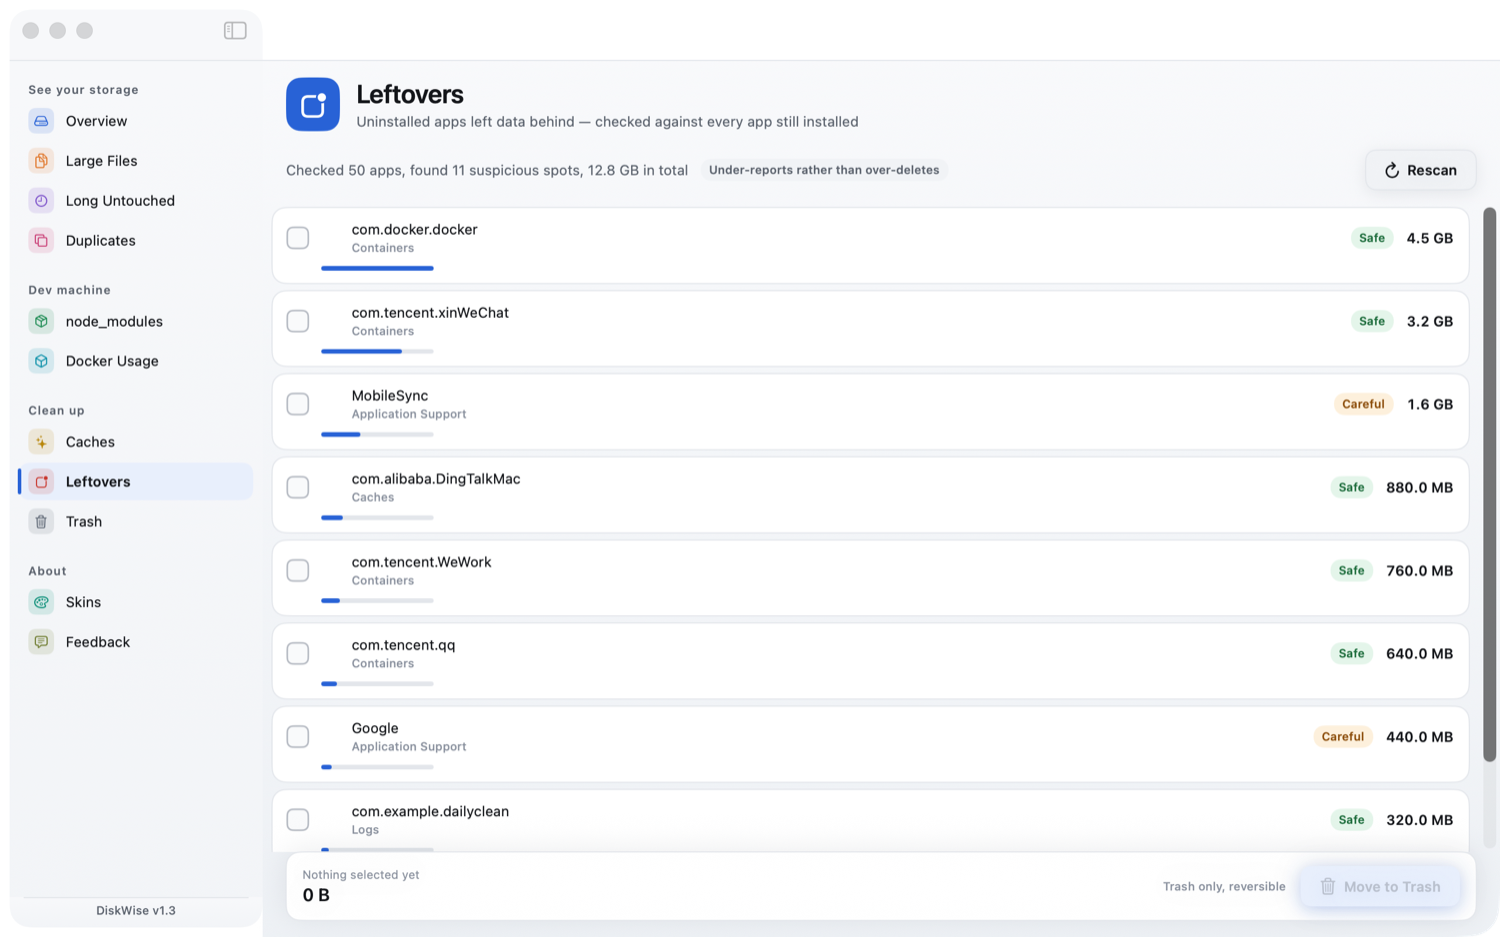
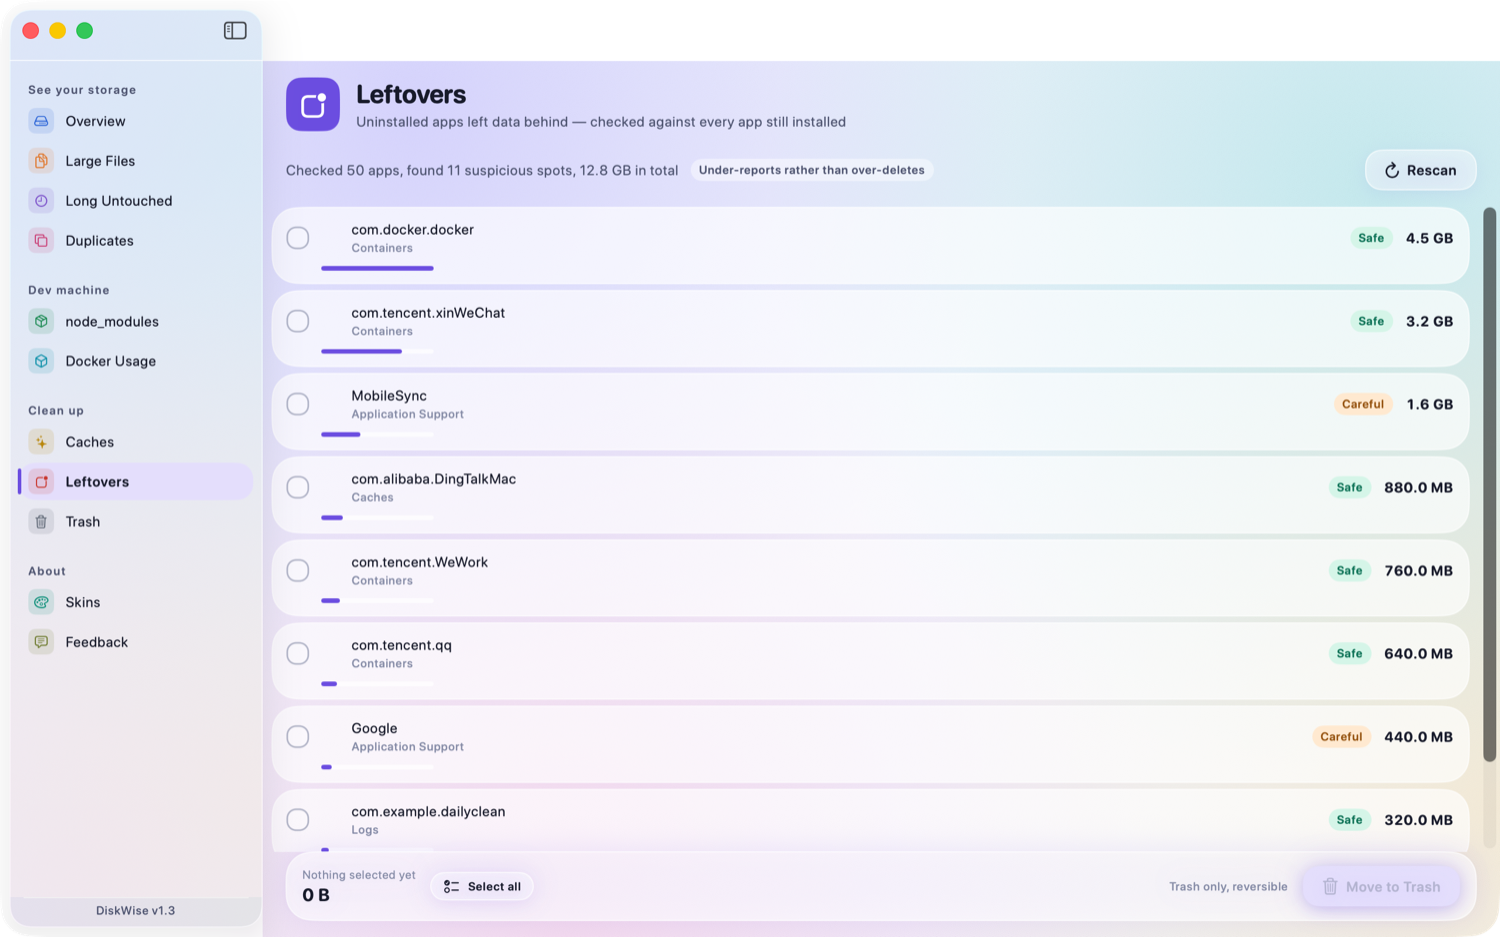
Give the checkbox lists a select-all that only reaches what it may delete
大文件、很久没动、缓存清理、卸载残留、node_modules 五页都是勾选列表，却没有一处
「全选」：一屏 30 行只能点 30 次。重复文件页早就有「全选多余」，其余四页漏了。

全选按在底部清理条上（选中数量就在它旁边，用户找批量操作时眼睛本来在那儿），
状态跟着列表走：全勾上变「取消全选」，一行都勾不动时按钮不画。

它只勾勾得动的行：系统区的条目（勾了也删不掉，全选后按清理只会换一屏报错）、
体积还没统计出来的缓存项、以及卸载残留里标「留意」的那批——那页的立脚点是宁可
漏报不可误删，一键把「留意」带走等于把这页存在的理由按掉。差额写在按钮提示里，
不然列表 30 行、按完只选上 13 项，看着像漏了。

diff --git a/Sources/DiskCleaner/Views/BigOldViews.swift b/Sources/DiskCleaner/Views/BigOldViews.swift
@@ -24,6 +24,20 @@ final class BigFilesModel: ObservableObject {
     var selected: [FileRow] { rows.filter { $0.selected } }
     var selectedBytes: Int64 { selected.reduce(0) { $0 + $1.size } }
 
+    /// 「全选」只管勾得动的那几行：系统区的行选上也删不掉，全选后按清理只会换一屏报错。
+    /// 一行都勾不动时返回 nil，按钮不画——画一颗点了没反应的按钮比没有更糟。
+    var selectAll: SelectAll? {
+        let open = rows.filter(\.deletable)
+        guard !open.isEmpty else { return nil }
+        return SelectAll(allSelected: open.allSatisfy(\.selected),
+                         unselectable: rows.count - open.count) { on in
+            for i in self.rows.indices where self.rows[i].deletable {
+                self.rows[i].selected = on
+            }
+            self.syncBack()
+        }
+    }
+
     /// 总览跳过来的定向扫描；dirs == nil 回到默认范围
     func scan(scope: ScanScope, dirs: [URL]? = nil, note: String? = nil) {
         task?.cancel()
@@ -140,7 +154,7 @@ struct BigFilesView: View {
             }
 
             CleanBar(count: model.selected.count, bytes: model.selectedBytes,
-                     errorText: err) { confirm = true }
+                     errorText: err, selection: model.selectAll) { confirm = true }
         }
         .frame(maxWidth: .infinity)
         .onAppear {
@@ -200,6 +214,17 @@ final class OldFilesModel: ObservableObject {
     var selected: [FileRow] { rows.filter { $0.selected } }
     var selectedBytes: Int64 { selected.reduce(0) { $0 + $1.size } }
     var totalBytes: Int64 { rows.reduce(0) { $0 + $1.size } }
+
+    var selectAll: SelectAll? {
+        let open = rows.filter(\.deletable)
+        guard !open.isEmpty else { return nil }
+        return SelectAll(allSelected: open.allSatisfy(\.selected),
+                         unselectable: rows.count - open.count) { on in
+            for i in self.rows.indices where self.rows[i].deletable {
+                self.rows[i].selected = on
+            }
+        }
+    }
 
     func scan(scope: ScanScope) {
         task?.cancel()
@@ -285,7 +310,7 @@ struct OldFilesView: View {
             }
 
             CleanBar(count: model.selected.count, bytes: model.selectedBytes,
-                     errorText: err) { confirm = true }
+                     errorText: err, selection: model.selectAll) { confirm = true }
         }
         .frame(maxWidth: .infinity)
         .onAppear { if !model.started { model.scan(scope: store.scope) } }

diff --git a/Sources/DiskCleaner/Views/SharedViews.swift b/Sources/DiskCleaner/Views/SharedViews.swift
@@ -259,12 +259,22 @@ struct PathLine: View {
 
 // MARK: - 底部清理条
 
+/// CleanBar 上那颗「全选」要知道的三件事。
+struct SelectAll {
+    var allSelected: Bool
+    /// 这颗按钮不碰的行数（勾不了的、或刻意不批量碰的）。不报这个数，列表 30 行、
+    /// 按完只选上 20 项，用户只会以为漏了 10 项。
+    var unselectable: Int
+    var toggle: (Bool) -> Void
+}
+
 struct CleanBar: View {
     @Environment(\.theme) private var theme
     var count: Int
     var bytes: Int64
     var errorText: String? = nil
     var actionTitle: String = L("移入废纸篓")
+    var selection: SelectAll? = nil
     var onClean: () -> Void
 
     var body: some View {
@@ -296,6 +306,15 @@ struct CleanBar: View {
                         .font(theme.numeric(.title3))
                         .monospacedDigit()
                         .foregroundStyle(theme.palette.ink)
+                }
+                if let s = selection {
+                    ThemeButton(kind: .compact, symbol: s.allSelected ? "circle.dashed" : "checklist",
+                                title: s.allSelected ? L("取消全选") : L("全选")) {
+                        s.toggle(!s.allSelected)
+                    }
+                    .help(s.unselectable == 0
+                          ? L("选中本页列出的全部")
+                          : LF("选中本页列出的全部，另有 %d 项不在全选范围内", s.unselectable))
                 }
                 Spacer()
                 Text(L("只进废纸篓，可撤销"))

diff --git a/Sources/DiskCleaner/Views/DupOrphansViews.swift b/Sources/DiskCleaner/Views/DupOrphansViews.swift
@@ -267,6 +267,19 @@ final class OrphansModel: ObservableObject {
     var selectedBytes: Int64 { selected.reduce(0) { $0 + ($1.size ?? 0) } }
     var totalBytes: Int64 { items.reduce(0) { $0 + ($1.size ?? 0) } }
 
+    /// 全选只扫「安全」那批：这页的立脚点是宁可漏报不可误删，标「留意」的意思是
+    /// 「得你自己判」，一键把它带走等于把这页存在的理由按掉了。
+    var selectAll: SelectAll? {
+        let open = items.filter { $0.level != "warn" }
+        guard !open.isEmpty else { return nil }
+        return SelectAll(allSelected: open.allSatisfy(\.selected),
+                         unselectable: items.count - open.count) { on in
+            for i in self.items.indices where self.items[i].level != "warn" {
+                self.items[i].selected = on
+            }
+        }
+    }
+
     func scan() {
         task?.cancel()
         scanning = true
@@ -352,7 +365,7 @@ struct OrphansView: View {
             }
 
             CleanBar(count: model.selected.count, bytes: model.selectedBytes,
-                     errorText: err) { confirm = true }
+                     errorText: err, selection: model.selectAll) { confirm = true }
         }
         .frame(maxWidth: .infinity)
         .onAppear { if !model.started { model.scan() } }

diff --git a/Sources/DiskCleaner/Views/CachesView.swift b/Sources/DiskCleaner/Views/CachesView.swift
@@ -50,6 +50,18 @@ final class CachesModel: ObservableObject {
     var selected: [CacheItem] { items.filter { $0.selected && $0.size != nil } }
     var selectedBytes: Int64 { selected.reduce(0) { $0 + ($1.size ?? 0) } }
 
+    /// 体积还没统计出来的行不给全选：选了也不知道能腾出多少，确认框里会写成一个假数。
+    var selectAll: SelectAll? {
+        let open = items.filter { ($0.size ?? 0) > 0 }
+        guard !open.isEmpty else { return nil }
+        return SelectAll(allSelected: open.allSatisfy(\.selected),
+                         unselectable: items.count - open.count) { on in
+            for i in self.items.indices where (self.items[i].size ?? 0) > 0 {
+                self.items[i].selected = on
+            }
+        }
+    }
+
     func load(force: Bool = false) {
         if started && !force { return }
         task?.cancel()
@@ -161,7 +173,7 @@ struct CachesView: View {
             }
 
             CleanBar(count: model.selected.count, bytes: model.selectedBytes,
-                     errorText: errorText) { confirmClean = true }
+                     errorText: errorText, selection: model.selectAll) { confirmClean = true }
         }
         .frame(maxWidth: .infinity)
         .onAppear { model.load() }

diff --git a/Sources/DiskCleaner/Views/NMDockerViews.swift b/Sources/DiskCleaner/Views/NMDockerViews.swift
@@ -15,6 +15,13 @@ final class NMModel: ObservableObject {
     var selectedBytes: Int64 { selected.reduce(0) { $0 + $1.size } }
     var totalBytes: Int64 { items.reduce(0) { $0 + $1.size } }
 
+    var selectAll: SelectAll? {
+        guard !items.isEmpty else { return nil }
+        return SelectAll(allSelected: items.allSatisfy(\.selected), unselectable: 0) { on in
+            for i in self.items.indices { self.items[i].selected = on }
+        }
+    }
+
     func scan() {
         task?.cancel()
         scanning = true
@@ -87,7 +94,7 @@ struct NMView: View {
             }
 
             CleanBar(count: model.selected.count, bytes: model.selectedBytes,
-                     errorText: err) { confirm = true }
+                     errorText: err, selection: model.selectAll) { confirm = true }
         }
         .frame(maxWidth: .infinity)
         .onAppear { if !model.started { model.scan() } }

diff --git a/docs/ARCHITECTURE.md b/docs/ARCHITECTURE.md
@@ -219,6 +219,9 @@ DISKWISE_HOME_SHIM=/tmp/DiskWiseDemoHome DISKWISE_SHOTS=/tmp/shots \
 - **算到 ≠ 删得动**：`isDeletable()` 只认家目录与装 App 的目录。整盘扫出来的系统区条目照样列
   （那是账），但勾选框锁死 + 「系统区」标记 + 展开说明。重复文件页更硬：候选先 `filter(\.deletable)`，
   因为对 root 文件做一次全量哈希再告诉用户「删不了」是纯浪费。
+- **全选不越权**：底部清理条的「全选」只勾这一页勾得动的行——系统区的、体积还没统计出来的、
+  卸载残留里标「留意」的都不在内（那页的立脚点是宁可漏报不可误删，一键带走「留意」等于把这页
+  存在的理由按掉）。差额写在按钮提示里；一行都勾不动时按钮不画，画一颗点了没反应的比没有更糟。
 
 ---
 
